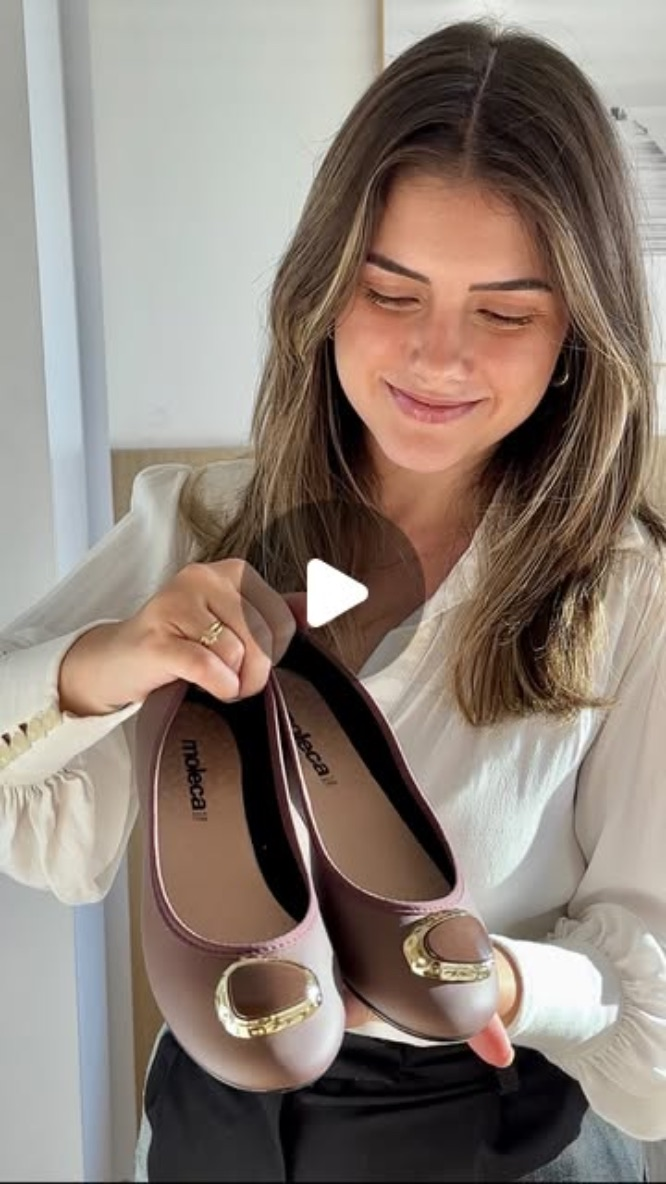
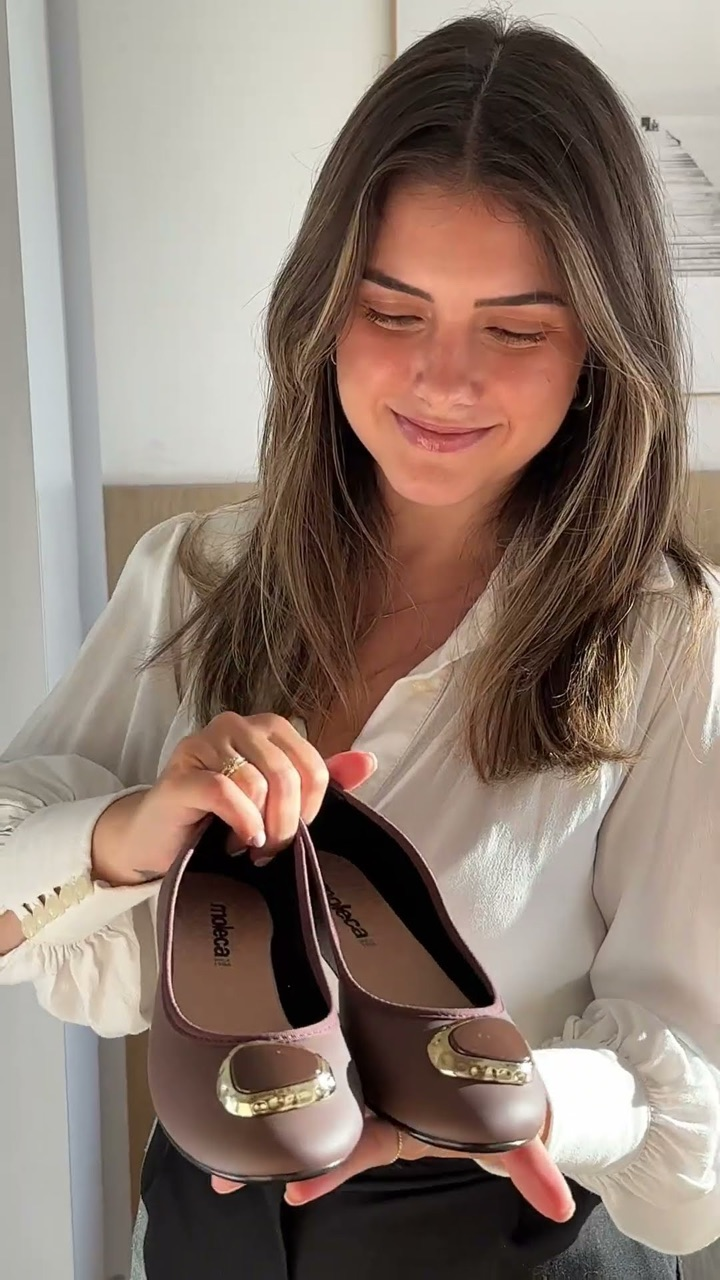
Add files via upload
Capas novas nos destaques e sem o total

diff --git a/index.html b/index.html
@@ -245,7 +245,7 @@ a.sobre-tag--marrom:hover{background:#a9825f}
 .destaques-escuro .destaque{border:0;background:none;padding:0}
 .destaques-escuro .destaque .vplayer{border-radius:12px;margin-bottom:1.3rem;background:#5f5044}
 .destaques-escuro .destaque .vplayer .vplay{border-radius:12px}
-.destaques-escuro .vposter{object-fit:cover;object-position:50% 50%}
+.destaques-escuro .vposter{object-fit:cover;object-position:50% 50%;filter:sepia(.12) saturate(1.05)}
 .destaques-escuro .destaque-info{padding:0}
 .destaques-escuro .destaque .grande{color:#a9825f}
 .destaques-escuro .destaque .rotulo{margin:.5rem 0 .7rem;color:#d8c3ac}
@@ -521,11 +521,6 @@ a.sobre-tag--marrom:hover{background:#a9825f}
       <h2 id="titulo-destaques" class="destaques-titulo"><span data-t="destTitulo1">Conteúdos que</span> <em data-t="destTitulo2">mais rodaram.</em></h2>
     </div>
     <div class="destaques" id="lista-destaques"><!-- preenchido pelo script (array destaques) --></div>
-    <!-- TOTAL SOMADO: 393 mil + 1,7M + 117 mil -->
-    <div class="destaques-total revela">
-      <strong data-t="destTotal">+2,2M</strong>
-      <span data-t="destTotalTxt">views somadas só nestes três vídeos</span>
-    </div>
   </div>
 </section>
 
@@ -759,15 +754,15 @@ const marcas = ["Natura","L'Occitane","Dove","Rexona","Omo","Cif","Confort","Pan
    capa: ONDE ENTRA A CAPA. Deixe "" para usar o bloco com degradê,
          ou suba a imagem vertical 9:16 no GitHub e coloque o nome, ex.: "destaque1.jpg" */
 const destaques = [
-  { link: "https://www.instagram.com/reel/DdOs2PZxzyi/", capa: "destaque1.jpg", youtube: "https://youtube.com/shorts/cMijf_BG4WY",
+  { link: "https://www.instagram.com/reel/DdOs2PZxzyi/", capa: "destaque1.jpg?v=2", youtube: "https://youtube.com/shorts/cMijf_BG4WY",
     numero: { pt: "+393 mil", en: "+393K" }, rotulo: { pt: "views no reels", en: "reel views" },
     titulo: { pt: "Profuse", en: "Profuse" },
     contexto: { pt: "Skincare · protetor solar FPS 60 na rotina", en: "Skincare · SPF 60 sunscreen in a daily routine" } },
-  { link: "https://www.instagram.com/reel/DX68BwCtNYO/", capa: "destaque2.jpg", youtube: "https://youtube.com/shorts/4mo9ijTNsSQ",
+  { link: "https://www.instagram.com/reel/DX68BwCtNYO/", capa: "destaque2.jpg?v=2", youtube: "https://youtube.com/shorts/4mo9ijTNsSQ",
     numero: { pt: "+1,7M", en: "+1.7M" }, rotulo: { pt: "views no reels", en: "reel views" },
     titulo: { pt: "Di Santinni", en: "Di Santinni" },
-    contexto: { pt: "Moda · sapatilha Moleca em look do dia a dia", en: "Fashion · Moleca flats in an everyday look" } },
-  { link: "https://www.instagram.com/reel/DQxoRguADfV/", capa: "destaque3.jpg", youtube: "https://youtube.com/shorts/874zx_g4C10",
+    contexto: { pt: "Moda · sapatilha Moleca como presente especial", en: "Fashion · Moleca flats as a special gift" } },
+  { link: "https://www.instagram.com/reel/DQxoRguADfV/", capa: "destaque3.jpg?v=2", youtube: "https://youtube.com/shorts/874zx_g4C10",
     numero: { pt: "+117 mil", en: "+117K" }, rotulo: { pt: "views no reels", en: "reel views" },
     titulo: { pt: "Agustin Fernandez", en: "Agustin Fernandez" },
     contexto: { pt: "Beleza · máscara de cílios, do toque ao resultado", en: "Beauty · mascara, from first stroke to result" } }
